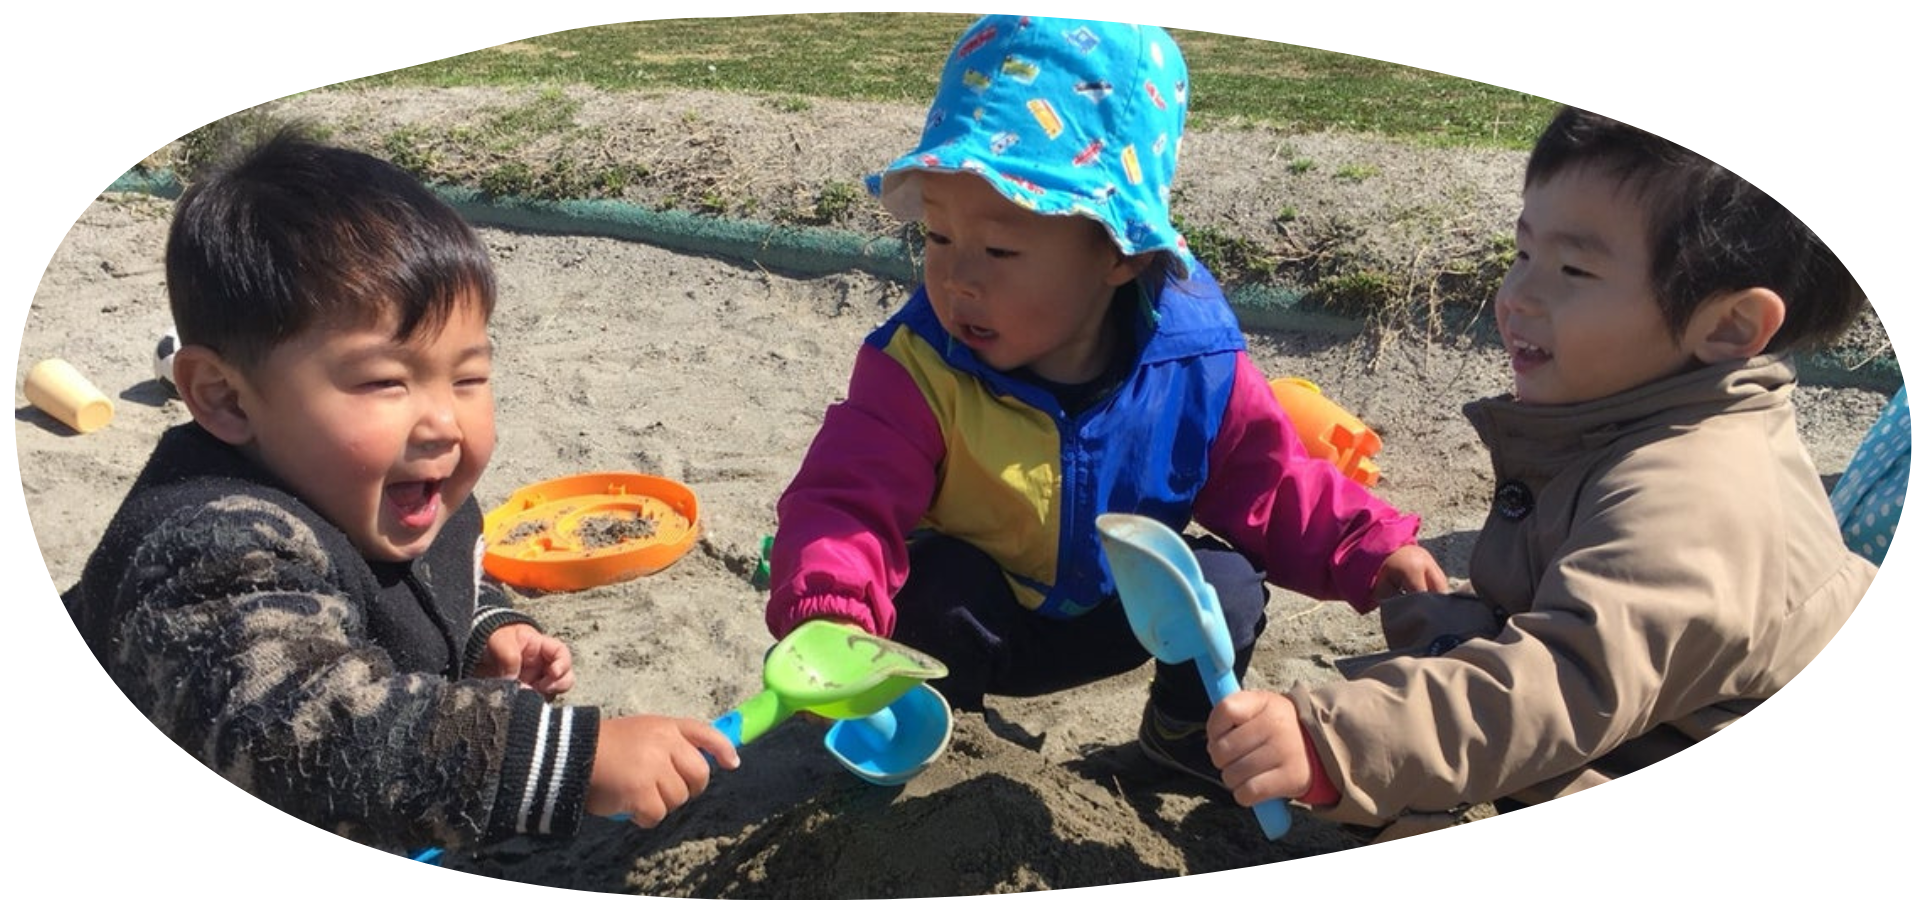
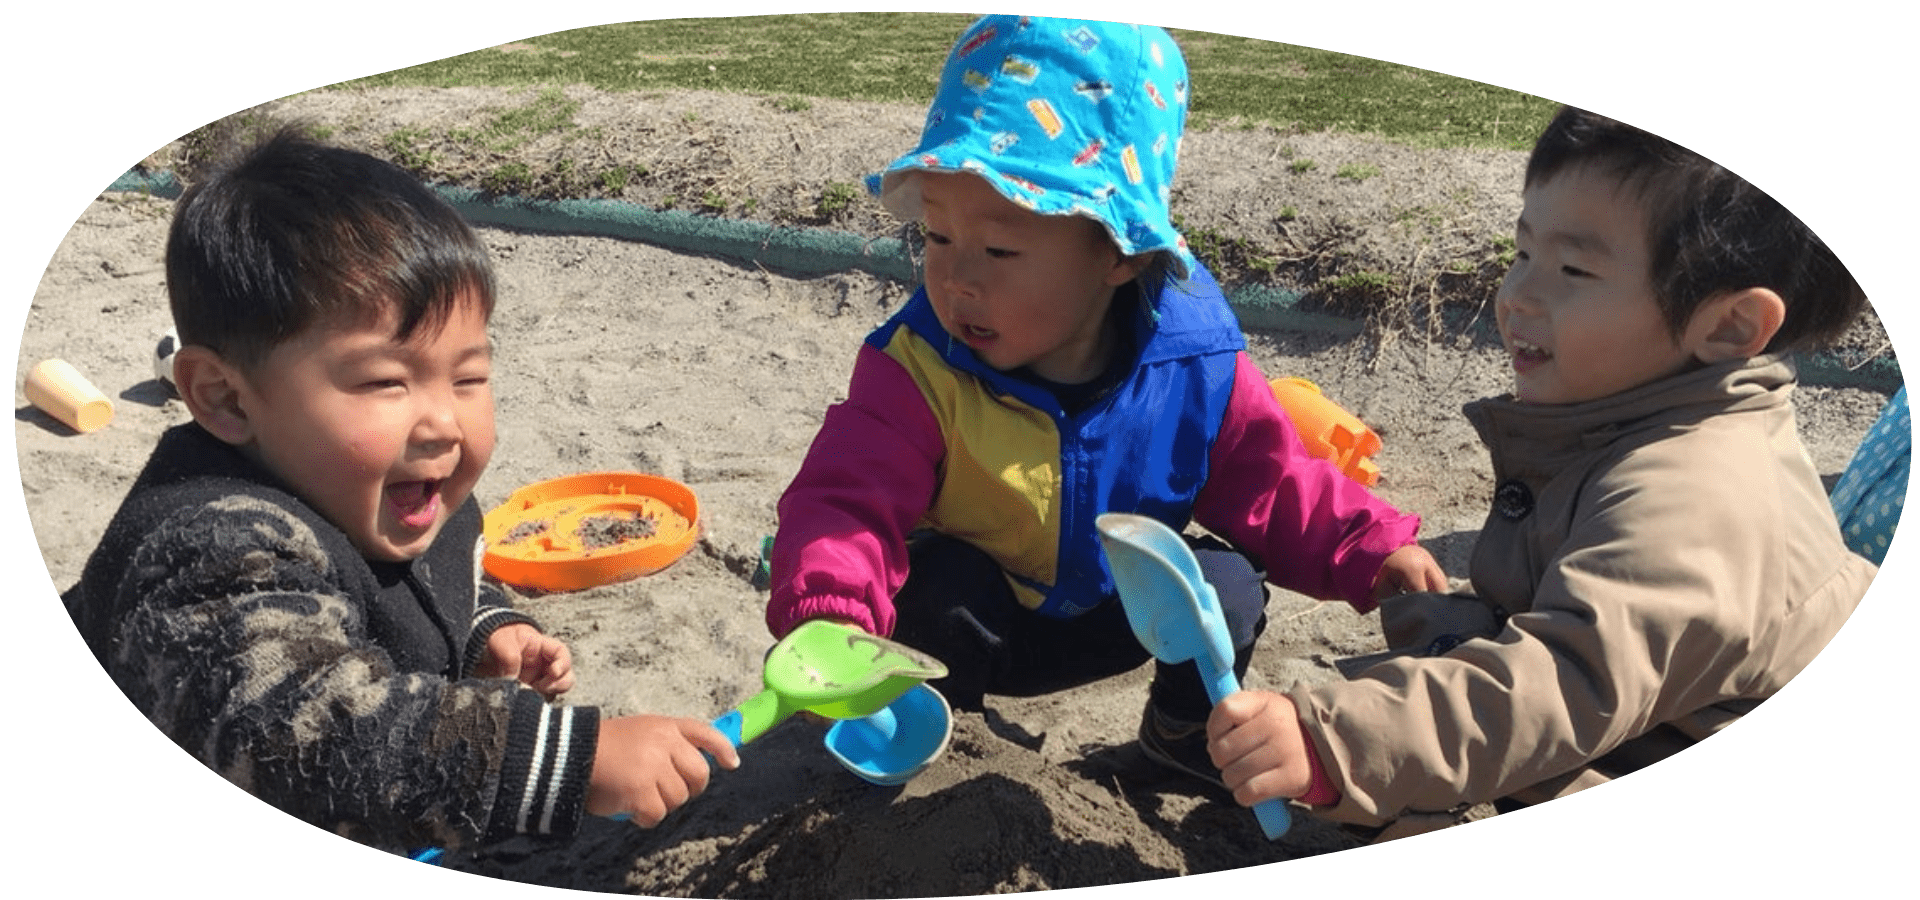
💄 画像の圧縮

diff --git a/css/style.css b/css/style.css
@@ -37,9 +37,7 @@ h3 {
   padding-top: 90px;
   margin: 20px 0px;
 }
-section {
-  margin: 50px 0px;
-}
+
 html {
   scroll-padding-top: 230px;
 }
@@ -103,7 +101,7 @@ html {
   margin-top: -16px;
 }
 .top img {
-  margin-top: 160px;
+  margin-top: 170px;
 }
 @media (max-width: 876px) {
   .header-menu {
@@ -223,7 +221,6 @@ html {
 /* ーーーーーーー メイン概要ーーーーーーーーー */
 .about {
   background-color: #fdf7f2;
-  padding: 30px 0px;
 }
 .flex-box-about {
   display: flex;
@@ -399,7 +396,6 @@ table td {
 
 .access {
   background-color: #fdf7f2;
-  padding: 30px 0px;
 }
 .access-text {
   font-weight: bold;
